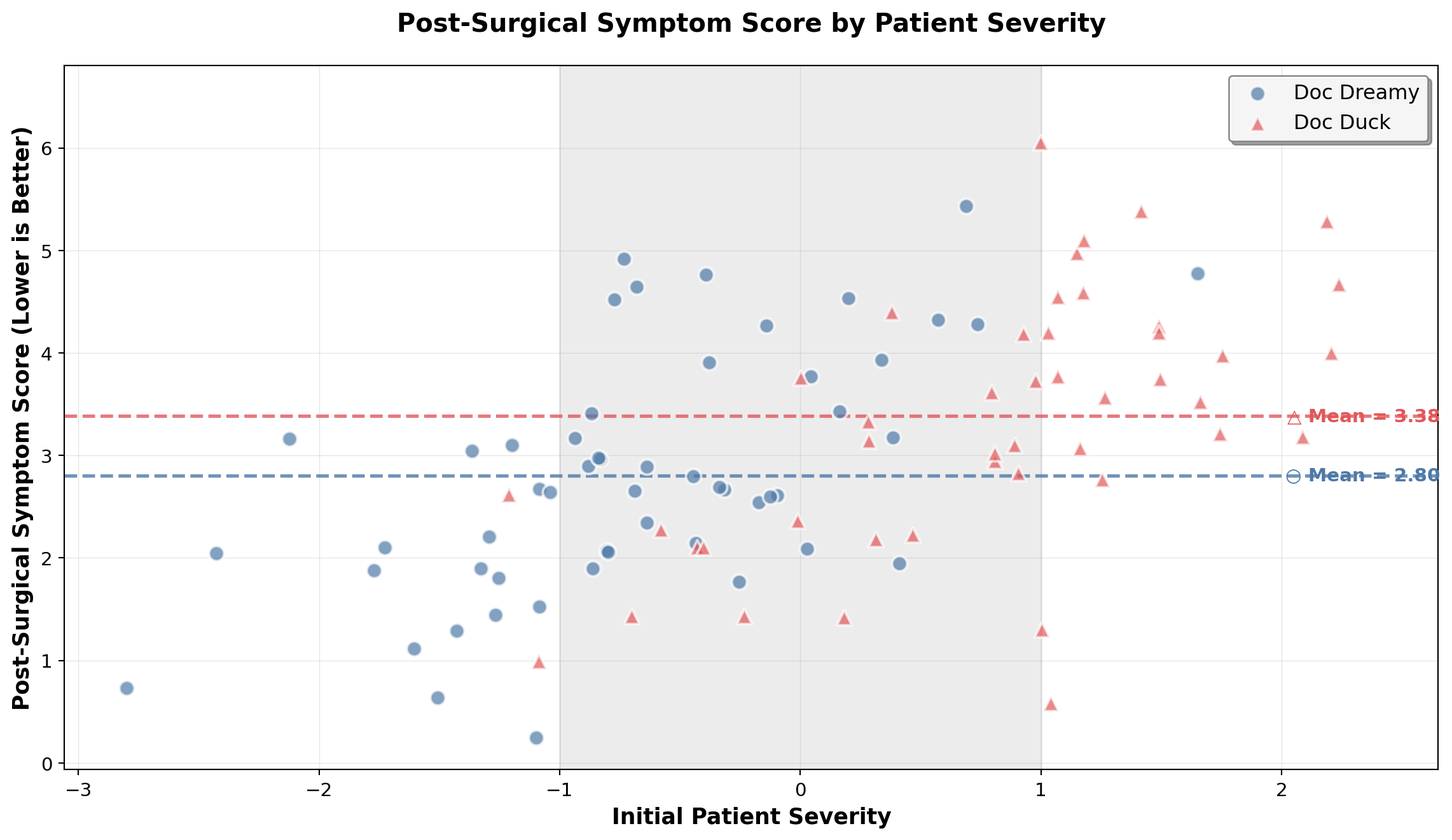
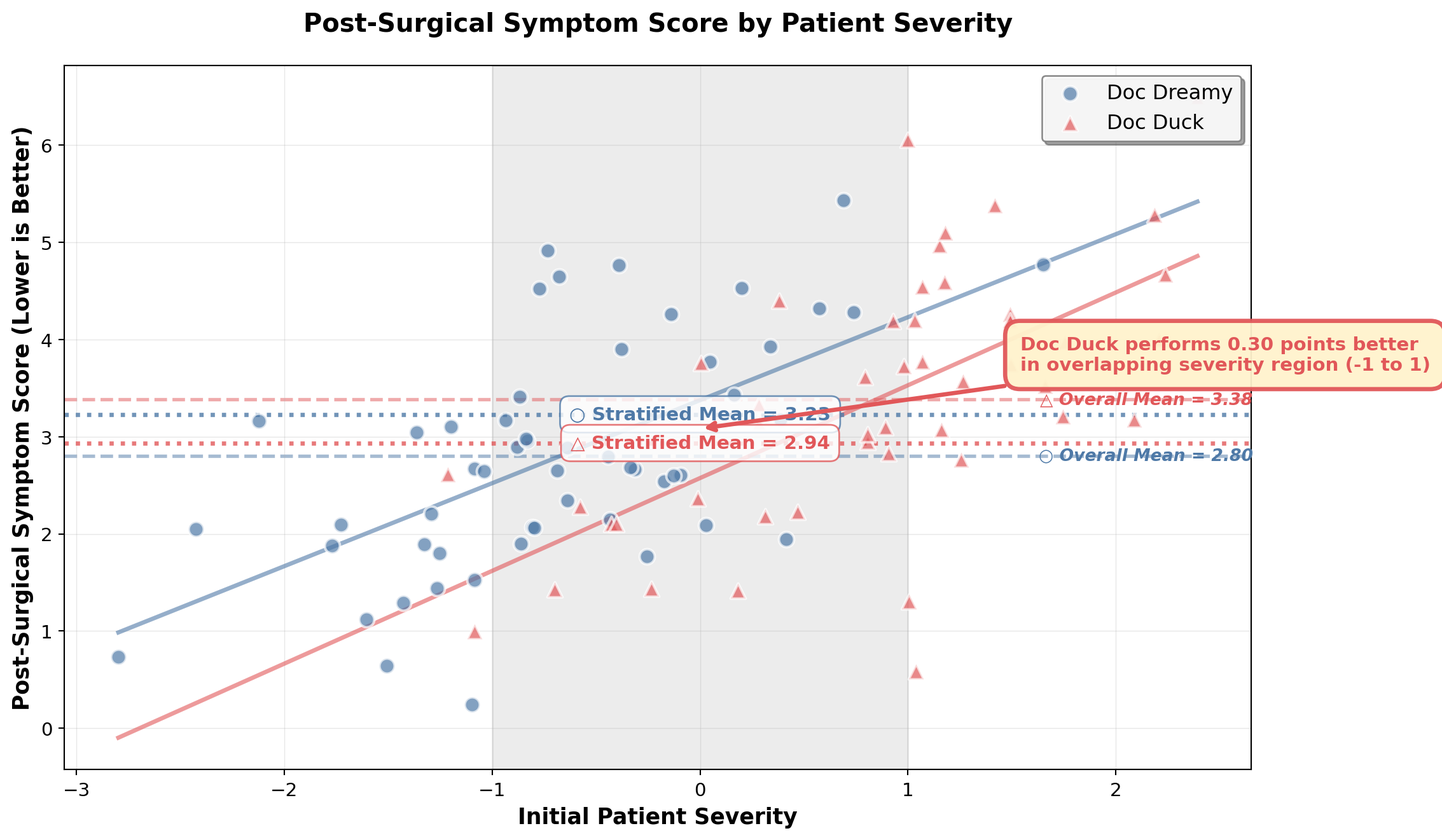
Ram's Randomization challenge

diff --git a/index.html b/index.html
@@ -635,81 +635,138 @@ Figure&nbsp;5: Post-Surgical Symptom Score (lower is better) for randomized pati
 <div id="cell-fig-plot-outcomes-severity" class="cell" data-execution_count="7">
 <div class="code-copy-outer-scaffold"><div class="sourceCode cell-code" id="cb7"><pre class="sourceCode python code-with-copy"><code class="sourceCode python"><span id="cb7-1"><a href="#cb7-1" aria-hidden="true" tabindex="-1"></a><span class="im">import</span> matplotlib.pyplot <span class="im">as</span> plt</span>
 <span id="cb7-2"><a href="#cb7-2" aria-hidden="true" tabindex="-1"></a><span class="im">import</span> numpy <span class="im">as</span> np</span>
-<span id="cb7-3"><a href="#cb7-3" aria-hidden="true" tabindex="-1"></a></span>
-<span id="cb7-4"><a href="#cb7-4" aria-hidden="true" tabindex="-1"></a><span class="co"># Filter observational data by doctor</span></span>
-<span id="cb7-5"><a href="#cb7-5" aria-hidden="true" tabindex="-1"></a>dreamy_data <span class="op">=</span> patients_df[patients_df[<span class="st">'doctor_name'</span>] <span class="op">==</span> <span class="st">'Doc Dreamy'</span>]</span>
-<span id="cb7-6"><a href="#cb7-6" aria-hidden="true" tabindex="-1"></a>duck_data <span class="op">=</span> patients_df[patients_df[<span class="st">'doctor_name'</span>] <span class="op">==</span> <span class="st">'Doc Duck'</span>]</span>
-<span id="cb7-7"><a href="#cb7-7" aria-hidden="true" tabindex="-1"></a></span>
-<span id="cb7-8"><a href="#cb7-8" aria-hidden="true" tabindex="-1"></a><span class="co"># Calculate means</span></span>
-<span id="cb7-9"><a href="#cb7-9" aria-hidden="true" tabindex="-1"></a>dreamy_mean <span class="op">=</span> dreamy_data[<span class="st">'post_surgical_score'</span>].mean()</span>
-<span id="cb7-10"><a href="#cb7-10" aria-hidden="true" tabindex="-1"></a>duck_mean <span class="op">=</span> duck_data[<span class="st">'post_surgical_score'</span>].mean()</span>
-<span id="cb7-11"><a href="#cb7-11" aria-hidden="true" tabindex="-1"></a></span>
-<span id="cb7-12"><a href="#cb7-12" aria-hidden="true" tabindex="-1"></a><span class="co"># Create figure with professional styling</span></span>
-<span id="cb7-13"><a href="#cb7-13" aria-hidden="true" tabindex="-1"></a>fig, ax <span class="op">=</span> plt.subplots(figsize<span class="op">=</span>(<span class="dv">12</span>, <span class="dv">7</span>))</span>
-<span id="cb7-14"><a href="#cb7-14" aria-hidden="true" tabindex="-1"></a></span>
-<span id="cb7-15"><a href="#cb7-15" aria-hidden="true" tabindex="-1"></a><span class="co"># Add shaded region highlighting severity between -1 and 1 (stratification region)</span></span>
-<span id="cb7-16"><a href="#cb7-16" aria-hidden="true" tabindex="-1"></a>ax.axvspan(<span class="op">-</span><span class="dv">1</span>, <span class="dv">1</span>, alpha<span class="op">=</span><span class="fl">0.15</span>, color<span class="op">=</span><span class="st">'gray'</span>, zorder<span class="op">=</span><span class="dv">0</span>, label<span class="op">=</span><span class="st">'Stratification Region'</span>)</span>
-<span id="cb7-17"><a href="#cb7-17" aria-hidden="true" tabindex="-1"></a></span>
-<span id="cb7-18"><a href="#cb7-18" aria-hidden="true" tabindex="-1"></a><span class="co"># Plot scatter points with different markers</span></span>
-<span id="cb7-19"><a href="#cb7-19" aria-hidden="true" tabindex="-1"></a><span class="co"># Doc Dreamy: circles, blue</span></span>
-<span id="cb7-20"><a href="#cb7-20" aria-hidden="true" tabindex="-1"></a>ax.scatter(dreamy_data[<span class="st">'severity'</span>], dreamy_data[<span class="st">'post_surgical_score'</span>], </span>
-<span id="cb7-21"><a href="#cb7-21" aria-hidden="true" tabindex="-1"></a>           marker<span class="op">=</span><span class="st">'o'</span>, color<span class="op">=</span><span class="st">'#4E79A7'</span>, s<span class="op">=</span><span class="dv">80</span>, alpha<span class="op">=</span><span class="fl">0.7</span>, </span>
-<span id="cb7-22"><a href="#cb7-22" aria-hidden="true" tabindex="-1"></a>           label<span class="op">=</span><span class="st">'Doc Dreamy'</span>, edgecolors<span class="op">=</span><span class="st">'white'</span>, linewidths<span class="op">=</span><span class="fl">1.5</span>, zorder<span class="op">=</span><span class="dv">3</span>)</span>
-<span id="cb7-23"><a href="#cb7-23" aria-hidden="true" tabindex="-1"></a></span>
-<span id="cb7-24"><a href="#cb7-24" aria-hidden="true" tabindex="-1"></a><span class="co"># Doc Duck: triangles, coral/red-orange</span></span>
-<span id="cb7-25"><a href="#cb7-25" aria-hidden="true" tabindex="-1"></a>ax.scatter(duck_data[<span class="st">'severity'</span>], duck_data[<span class="st">'post_surgical_score'</span>], </span>
-<span id="cb7-26"><a href="#cb7-26" aria-hidden="true" tabindex="-1"></a>           marker<span class="op">=</span><span class="st">'^'</span>, color<span class="op">=</span><span class="st">'#E15759'</span>, s<span class="op">=</span><span class="dv">80</span>, alpha<span class="op">=</span><span class="fl">0.7</span>, </span>
-<span id="cb7-27"><a href="#cb7-27" aria-hidden="true" tabindex="-1"></a>           label<span class="op">=</span><span class="st">'Doc Duck'</span>, edgecolors<span class="op">=</span><span class="st">'white'</span>, linewidths<span class="op">=</span><span class="fl">1.5</span>, zorder<span class="op">=</span><span class="dv">3</span>)</span>
-<span id="cb7-28"><a href="#cb7-28" aria-hidden="true" tabindex="-1"></a></span>
-<span id="cb7-29"><a href="#cb7-29" aria-hidden="true" tabindex="-1"></a><span class="co"># Add horizontal dashed lines for means</span></span>
-<span id="cb7-30"><a href="#cb7-30" aria-hidden="true" tabindex="-1"></a>ax.axhline(y<span class="op">=</span>dreamy_mean, color<span class="op">=</span><span class="st">'#4E79A7'</span>, linestyle<span class="op">=</span><span class="st">'--'</span>, </span>
-<span id="cb7-31"><a href="#cb7-31" aria-hidden="true" tabindex="-1"></a>           linewidth<span class="op">=</span><span class="dv">2</span>, alpha<span class="op">=</span><span class="fl">0.8</span>, zorder<span class="op">=</span><span class="dv">2</span>)</span>
-<span id="cb7-32"><a href="#cb7-32" aria-hidden="true" tabindex="-1"></a>ax.axhline(y<span class="op">=</span>duck_mean, color<span class="op">=</span><span class="st">'#E15759'</span>, linestyle<span class="op">=</span><span class="st">'--'</span>, </span>
-<span id="cb7-33"><a href="#cb7-33" aria-hidden="true" tabindex="-1"></a>           linewidth<span class="op">=</span><span class="dv">2</span>, alpha<span class="op">=</span><span class="fl">0.8</span>, zorder<span class="op">=</span><span class="dv">2</span>)</span>
-<span id="cb7-34"><a href="#cb7-34" aria-hidden="true" tabindex="-1"></a></span>
-<span id="cb7-35"><a href="#cb7-35" aria-hidden="true" tabindex="-1"></a><span class="co"># Add text annotations with mean values and shape symbols</span></span>
-<span id="cb7-36"><a href="#cb7-36" aria-hidden="true" tabindex="-1"></a><span class="co"># Position annotations on the right side of the plot</span></span>
-<span id="cb7-37"><a href="#cb7-37" aria-hidden="true" tabindex="-1"></a>x_max <span class="op">=</span> <span class="bu">max</span>(patients_df[<span class="st">'severity'</span>].<span class="bu">max</span>(), <span class="bu">abs</span>(patients_df[<span class="st">'severity'</span>].<span class="bu">min</span>()))</span>
-<span id="cb7-38"><a href="#cb7-38" aria-hidden="true" tabindex="-1"></a>x_annotation <span class="op">=</span> x_max <span class="op">*</span> <span class="fl">0.95</span></span>
+<span id="cb7-3"><a href="#cb7-3" aria-hidden="true" tabindex="-1"></a><span class="im">from</span> scipy <span class="im">import</span> stats</span>
+<span id="cb7-4"><a href="#cb7-4" aria-hidden="true" tabindex="-1"></a></span>
+<span id="cb7-5"><a href="#cb7-5" aria-hidden="true" tabindex="-1"></a><span class="co"># Filter observational data by doctor</span></span>
+<span id="cb7-6"><a href="#cb7-6" aria-hidden="true" tabindex="-1"></a>dreamy_data <span class="op">=</span> patients_df[patients_df[<span class="st">'doctor_name'</span>] <span class="op">==</span> <span class="st">'Doc Dreamy'</span>]</span>
+<span id="cb7-7"><a href="#cb7-7" aria-hidden="true" tabindex="-1"></a>duck_data <span class="op">=</span> patients_df[patients_df[<span class="st">'doctor_name'</span>] <span class="op">==</span> <span class="st">'Doc Duck'</span>]</span>
+<span id="cb7-8"><a href="#cb7-8" aria-hidden="true" tabindex="-1"></a></span>
+<span id="cb7-9"><a href="#cb7-9" aria-hidden="true" tabindex="-1"></a><span class="co"># Calculate overall means</span></span>
+<span id="cb7-10"><a href="#cb7-10" aria-hidden="true" tabindex="-1"></a>dreamy_mean <span class="op">=</span> dreamy_data[<span class="st">'post_surgical_score'</span>].mean()</span>
+<span id="cb7-11"><a href="#cb7-11" aria-hidden="true" tabindex="-1"></a>duck_mean <span class="op">=</span> duck_data[<span class="st">'post_surgical_score'</span>].mean()</span>
+<span id="cb7-12"><a href="#cb7-12" aria-hidden="true" tabindex="-1"></a></span>
+<span id="cb7-13"><a href="#cb7-13" aria-hidden="true" tabindex="-1"></a><span class="co"># Calculate means within stratification region (-1 to 1)</span></span>
+<span id="cb7-14"><a href="#cb7-14" aria-hidden="true" tabindex="-1"></a>stratification_mask_dreamy <span class="op">=</span> (dreamy_data[<span class="st">'severity'</span>] <span class="op">&gt;=</span> <span class="op">-</span><span class="dv">1</span>) <span class="op">&amp;</span> (dreamy_data[<span class="st">'severity'</span>] <span class="op">&lt;=</span> <span class="dv">1</span>)</span>
+<span id="cb7-15"><a href="#cb7-15" aria-hidden="true" tabindex="-1"></a>stratification_mask_duck <span class="op">=</span> (duck_data[<span class="st">'severity'</span>] <span class="op">&gt;=</span> <span class="op">-</span><span class="dv">1</span>) <span class="op">&amp;</span> (duck_data[<span class="st">'severity'</span>] <span class="op">&lt;=</span> <span class="dv">1</span>)</span>
+<span id="cb7-16"><a href="#cb7-16" aria-hidden="true" tabindex="-1"></a></span>
+<span id="cb7-17"><a href="#cb7-17" aria-hidden="true" tabindex="-1"></a>dreamy_mean_stratified <span class="op">=</span> dreamy_data[stratification_mask_dreamy][<span class="st">'post_surgical_score'</span>].mean()</span>
+<span id="cb7-18"><a href="#cb7-18" aria-hidden="true" tabindex="-1"></a>duck_mean_stratified <span class="op">=</span> duck_data[stratification_mask_duck][<span class="st">'post_surgical_score'</span>].mean()</span>
+<span id="cb7-19"><a href="#cb7-19" aria-hidden="true" tabindex="-1"></a></span>
+<span id="cb7-20"><a href="#cb7-20" aria-hidden="true" tabindex="-1"></a><span class="co"># Fit regression lines for trend visualization</span></span>
+<span id="cb7-21"><a href="#cb7-21" aria-hidden="true" tabindex="-1"></a>dreamy_slope, dreamy_intercept, _, _, _ <span class="op">=</span> stats.linregress(</span>
+<span id="cb7-22"><a href="#cb7-22" aria-hidden="true" tabindex="-1"></a>    dreamy_data[<span class="st">'severity'</span>], dreamy_data[<span class="st">'post_surgical_score'</span>]</span>
+<span id="cb7-23"><a href="#cb7-23" aria-hidden="true" tabindex="-1"></a>)</span>
+<span id="cb7-24"><a href="#cb7-24" aria-hidden="true" tabindex="-1"></a>duck_slope, duck_intercept, _, _, _ <span class="op">=</span> stats.linregress(</span>
+<span id="cb7-25"><a href="#cb7-25" aria-hidden="true" tabindex="-1"></a>    duck_data[<span class="st">'severity'</span>], duck_data[<span class="st">'post_surgical_score'</span>]</span>
+<span id="cb7-26"><a href="#cb7-26" aria-hidden="true" tabindex="-1"></a>)</span>
+<span id="cb7-27"><a href="#cb7-27" aria-hidden="true" tabindex="-1"></a></span>
+<span id="cb7-28"><a href="#cb7-28" aria-hidden="true" tabindex="-1"></a><span class="co"># Create figure with professional styling</span></span>
+<span id="cb7-29"><a href="#cb7-29" aria-hidden="true" tabindex="-1"></a>fig, ax <span class="op">=</span> plt.subplots(figsize<span class="op">=</span>(<span class="dv">12</span>, <span class="dv">7</span>))</span>
+<span id="cb7-30"><a href="#cb7-30" aria-hidden="true" tabindex="-1"></a></span>
+<span id="cb7-31"><a href="#cb7-31" aria-hidden="true" tabindex="-1"></a><span class="co"># Add shaded region highlighting severity between -1 and 1 (stratification region)</span></span>
+<span id="cb7-32"><a href="#cb7-32" aria-hidden="true" tabindex="-1"></a>ax.axvspan(<span class="op">-</span><span class="dv">1</span>, <span class="dv">1</span>, alpha<span class="op">=</span><span class="fl">0.15</span>, color<span class="op">=</span><span class="st">'gray'</span>, zorder<span class="op">=</span><span class="dv">0</span>, label<span class="op">=</span><span class="st">'Stratification Region'</span>)</span>
+<span id="cb7-33"><a href="#cb7-33" aria-hidden="true" tabindex="-1"></a></span>
+<span id="cb7-34"><a href="#cb7-34" aria-hidden="true" tabindex="-1"></a><span class="co"># Plot scatter points with different markers</span></span>
+<span id="cb7-35"><a href="#cb7-35" aria-hidden="true" tabindex="-1"></a><span class="co"># Doc Dreamy: circles, blue</span></span>
+<span id="cb7-36"><a href="#cb7-36" aria-hidden="true" tabindex="-1"></a>ax.scatter(dreamy_data[<span class="st">'severity'</span>], dreamy_data[<span class="st">'post_surgical_score'</span>], </span>
+<span id="cb7-37"><a href="#cb7-37" aria-hidden="true" tabindex="-1"></a>           marker<span class="op">=</span><span class="st">'o'</span>, color<span class="op">=</span><span class="st">'#4E79A7'</span>, s<span class="op">=</span><span class="dv">80</span>, alpha<span class="op">=</span><span class="fl">0.7</span>, </span>
+<span id="cb7-38"><a href="#cb7-38" aria-hidden="true" tabindex="-1"></a>           label<span class="op">=</span><span class="st">'Doc Dreamy'</span>, edgecolors<span class="op">=</span><span class="st">'white'</span>, linewidths<span class="op">=</span><span class="fl">1.5</span>, zorder<span class="op">=</span><span class="dv">3</span>)</span>
 <span id="cb7-39"><a href="#cb7-39" aria-hidden="true" tabindex="-1"></a></span>
-<span id="cb7-40"><a href="#cb7-40" aria-hidden="true" tabindex="-1"></a><span class="co"># Doc Dreamy annotation with ○ symbol</span></span>
-<span id="cb7-41"><a href="#cb7-41" aria-hidden="true" tabindex="-1"></a>ax.text(x_annotation, dreamy_mean, <span class="ss">f'○ Mean = </span><span class="sc">{</span>dreamy_mean<span class="sc">:.2f}</span><span class="ss">'</span>, </span>
-<span id="cb7-42"><a href="#cb7-42" aria-hidden="true" tabindex="-1"></a>        fontsize<span class="op">=</span><span class="dv">11</span>, color<span class="op">=</span><span class="st">'#4E79A7'</span>, weight<span class="op">=</span><span class="st">'bold'</span>, </span>
-<span id="cb7-43"><a href="#cb7-43" aria-hidden="true" tabindex="-1"></a>        verticalalignment<span class="op">=</span><span class="st">'center'</span>, horizontalalignment<span class="op">=</span><span class="st">'right'</span>, zorder<span class="op">=</span><span class="dv">4</span>)</span>
+<span id="cb7-40"><a href="#cb7-40" aria-hidden="true" tabindex="-1"></a><span class="co"># Doc Duck: triangles, coral/red-orange</span></span>
+<span id="cb7-41"><a href="#cb7-41" aria-hidden="true" tabindex="-1"></a>ax.scatter(duck_data[<span class="st">'severity'</span>], duck_data[<span class="st">'post_surgical_score'</span>], </span>
+<span id="cb7-42"><a href="#cb7-42" aria-hidden="true" tabindex="-1"></a>           marker<span class="op">=</span><span class="st">'^'</span>, color<span class="op">=</span><span class="st">'#E15759'</span>, s<span class="op">=</span><span class="dv">80</span>, alpha<span class="op">=</span><span class="fl">0.7</span>, </span>
+<span id="cb7-43"><a href="#cb7-43" aria-hidden="true" tabindex="-1"></a>           label<span class="op">=</span><span class="st">'Doc Duck'</span>, edgecolors<span class="op">=</span><span class="st">'white'</span>, linewidths<span class="op">=</span><span class="fl">1.5</span>, zorder<span class="op">=</span><span class="dv">3</span>)</span>
 <span id="cb7-44"><a href="#cb7-44" aria-hidden="true" tabindex="-1"></a></span>
-<span id="cb7-45"><a href="#cb7-45" aria-hidden="true" tabindex="-1"></a><span class="co"># Doc Duck annotation with △ symbol</span></span>
-<span id="cb7-46"><a href="#cb7-46" aria-hidden="true" tabindex="-1"></a>ax.text(x_annotation, duck_mean, <span class="ss">f'△ Mean = </span><span class="sc">{</span>duck_mean<span class="sc">:.2f}</span><span class="ss">'</span>, </span>
-<span id="cb7-47"><a href="#cb7-47" aria-hidden="true" tabindex="-1"></a>        fontsize<span class="op">=</span><span class="dv">11</span>, color<span class="op">=</span><span class="st">'#E15759'</span>, weight<span class="op">=</span><span class="st">'bold'</span>, </span>
-<span id="cb7-48"><a href="#cb7-48" aria-hidden="true" tabindex="-1"></a>        verticalalignment<span class="op">=</span><span class="st">'center'</span>, horizontalalignment<span class="op">=</span><span class="st">'right'</span>, zorder<span class="op">=</span><span class="dv">4</span>)</span>
+<span id="cb7-45"><a href="#cb7-45" aria-hidden="true" tabindex="-1"></a><span class="co"># Add regression lines to show trends</span></span>
+<span id="cb7-46"><a href="#cb7-46" aria-hidden="true" tabindex="-1"></a>x_trend <span class="op">=</span> np.linspace(patients_df[<span class="st">'severity'</span>].<span class="bu">min</span>(), patients_df[<span class="st">'severity'</span>].<span class="bu">max</span>(), <span class="dv">100</span>)</span>
+<span id="cb7-47"><a href="#cb7-47" aria-hidden="true" tabindex="-1"></a>dreamy_trend <span class="op">=</span> dreamy_slope <span class="op">*</span> x_trend <span class="op">+</span> dreamy_intercept</span>
+<span id="cb7-48"><a href="#cb7-48" aria-hidden="true" tabindex="-1"></a>duck_trend <span class="op">=</span> duck_slope <span class="op">*</span> x_trend <span class="op">+</span> duck_intercept</span>
 <span id="cb7-49"><a href="#cb7-49" aria-hidden="true" tabindex="-1"></a></span>
-<span id="cb7-50"><a href="#cb7-50" aria-hidden="true" tabindex="-1"></a><span class="co"># Professional styling</span></span>
-<span id="cb7-51"><a href="#cb7-51" aria-hidden="true" tabindex="-1"></a>ax.set_xlabel(<span class="st">'Initial Patient Severity'</span>, fontsize<span class="op">=</span><span class="dv">13</span>, weight<span class="op">=</span><span class="st">'bold'</span>)</span>
-<span id="cb7-52"><a href="#cb7-52" aria-hidden="true" tabindex="-1"></a>ax.set_ylabel(<span class="st">'Post-Surgical Symptom Score (Lower is Better)'</span>, </span>
-<span id="cb7-53"><a href="#cb7-53" aria-hidden="true" tabindex="-1"></a>              fontsize<span class="op">=</span><span class="dv">13</span>, weight<span class="op">=</span><span class="st">'bold'</span>)</span>
-<span id="cb7-54"><a href="#cb7-54" aria-hidden="true" tabindex="-1"></a>ax.set_title(<span class="st">'Post-Surgical Symptom Score by Patient Severity'</span>, </span>
-<span id="cb7-55"><a href="#cb7-55" aria-hidden="true" tabindex="-1"></a>             fontsize<span class="op">=</span><span class="dv">15</span>, weight<span class="op">=</span><span class="st">'bold'</span>, pad<span class="op">=</span><span class="dv">20</span>)</span>
-<span id="cb7-56"><a href="#cb7-56" aria-hidden="true" tabindex="-1"></a></span>
-<span id="cb7-57"><a href="#cb7-57" aria-hidden="true" tabindex="-1"></a><span class="co"># Add grid</span></span>
-<span id="cb7-58"><a href="#cb7-58" aria-hidden="true" tabindex="-1"></a>ax.grid(<span class="va">True</span>, alpha<span class="op">=</span><span class="fl">0.3</span>, linestyle<span class="op">=</span><span class="st">'-'</span>, linewidth<span class="op">=</span><span class="fl">0.5</span>, zorder<span class="op">=</span><span class="dv">1</span>)</span>
-<span id="cb7-59"><a href="#cb7-59" aria-hidden="true" tabindex="-1"></a></span>
-<span id="cb7-60"><a href="#cb7-60" aria-hidden="true" tabindex="-1"></a><span class="co"># Add legend (excluding the shaded region from legend to keep it clean)</span></span>
-<span id="cb7-61"><a href="#cb7-61" aria-hidden="true" tabindex="-1"></a>handles, labels <span class="op">=</span> ax.get_legend_handles_labels()</span>
-<span id="cb7-62"><a href="#cb7-62" aria-hidden="true" tabindex="-1"></a><span class="co"># Filter out the shaded region from legend</span></span>
-<span id="cb7-63"><a href="#cb7-63" aria-hidden="true" tabindex="-1"></a>filtered_handles <span class="op">=</span> [h <span class="cf">for</span> h, l <span class="kw">in</span> <span class="bu">zip</span>(handles, labels) <span class="cf">if</span> l <span class="op">!=</span> <span class="st">'Stratification Region'</span>]</span>
-<span id="cb7-64"><a href="#cb7-64" aria-hidden="true" tabindex="-1"></a>filtered_labels <span class="op">=</span> [l <span class="cf">for</span> l <span class="kw">in</span> labels <span class="cf">if</span> l <span class="op">!=</span> <span class="st">'Stratification Region'</span>]</span>
-<span id="cb7-65"><a href="#cb7-65" aria-hidden="true" tabindex="-1"></a>ax.legend(filtered_handles, filtered_labels, loc<span class="op">=</span><span class="st">'upper right'</span>, fontsize<span class="op">=</span><span class="dv">12</span>, </span>
-<span id="cb7-66"><a href="#cb7-66" aria-hidden="true" tabindex="-1"></a>          framealpha<span class="op">=</span><span class="fl">0.9</span>, edgecolor<span class="op">=</span><span class="st">'gray'</span>, fancybox<span class="op">=</span><span class="va">True</span>, shadow<span class="op">=</span><span class="va">True</span>)</span>
-<span id="cb7-67"><a href="#cb7-67" aria-hidden="true" tabindex="-1"></a></span>
-<span id="cb7-68"><a href="#cb7-68" aria-hidden="true" tabindex="-1"></a><span class="co"># Improve tick labels</span></span>
-<span id="cb7-69"><a href="#cb7-69" aria-hidden="true" tabindex="-1"></a>ax.tick_params(axis<span class="op">=</span><span class="st">'both'</span>, labelsize<span class="op">=</span><span class="dv">11</span>)</span>
-<span id="cb7-70"><a href="#cb7-70" aria-hidden="true" tabindex="-1"></a></span>
-<span id="cb7-71"><a href="#cb7-71" aria-hidden="true" tabindex="-1"></a>plt.tight_layout()</span>
-<span id="cb7-72"><a href="#cb7-72" aria-hidden="true" tabindex="-1"></a>plt.show()</span></code></pre></div><button title="Copy to Clipboard" class="code-copy-button"><i class="bi"></i></button></div>
+<span id="cb7-50"><a href="#cb7-50" aria-hidden="true" tabindex="-1"></a>ax.plot(x_trend, dreamy_trend, color<span class="op">=</span><span class="st">'#4E79A7'</span>, linestyle<span class="op">=</span><span class="st">'-'</span>, </span>
+<span id="cb7-51"><a href="#cb7-51" aria-hidden="true" tabindex="-1"></a>        linewidth<span class="op">=</span><span class="fl">2.5</span>, alpha<span class="op">=</span><span class="fl">0.6</span>, label<span class="op">=</span><span class="st">'Doc Dreamy Trend'</span>, zorder<span class="op">=</span><span class="dv">2</span>)</span>
+<span id="cb7-52"><a href="#cb7-52" aria-hidden="true" tabindex="-1"></a>ax.plot(x_trend, duck_trend, color<span class="op">=</span><span class="st">'#E15759'</span>, linestyle<span class="op">=</span><span class="st">'-'</span>, </span>
+<span id="cb7-53"><a href="#cb7-53" aria-hidden="true" tabindex="-1"></a>        linewidth<span class="op">=</span><span class="fl">2.5</span>, alpha<span class="op">=</span><span class="fl">0.6</span>, label<span class="op">=</span><span class="st">'Doc Duck Trend'</span>, zorder<span class="op">=</span><span class="dv">2</span>)</span>
+<span id="cb7-54"><a href="#cb7-54" aria-hidden="true" tabindex="-1"></a></span>
+<span id="cb7-55"><a href="#cb7-55" aria-hidden="true" tabindex="-1"></a><span class="co"># Add horizontal dashed lines for overall means</span></span>
+<span id="cb7-56"><a href="#cb7-56" aria-hidden="true" tabindex="-1"></a>ax.axhline(y<span class="op">=</span>dreamy_mean, color<span class="op">=</span><span class="st">'#4E79A7'</span>, linestyle<span class="op">=</span><span class="st">'--'</span>, </span>
+<span id="cb7-57"><a href="#cb7-57" aria-hidden="true" tabindex="-1"></a>           linewidth<span class="op">=</span><span class="dv">2</span>, alpha<span class="op">=</span><span class="fl">0.5</span>, zorder<span class="op">=</span><span class="dv">1</span>)</span>
+<span id="cb7-58"><a href="#cb7-58" aria-hidden="true" tabindex="-1"></a>ax.axhline(y<span class="op">=</span>duck_mean, color<span class="op">=</span><span class="st">'#E15759'</span>, linestyle<span class="op">=</span><span class="st">'--'</span>, </span>
+<span id="cb7-59"><a href="#cb7-59" aria-hidden="true" tabindex="-1"></a>           linewidth<span class="op">=</span><span class="dv">2</span>, alpha<span class="op">=</span><span class="fl">0.5</span>, zorder<span class="op">=</span><span class="dv">1</span>)</span>
+<span id="cb7-60"><a href="#cb7-60" aria-hidden="true" tabindex="-1"></a></span>
+<span id="cb7-61"><a href="#cb7-61" aria-hidden="true" tabindex="-1"></a><span class="co"># Add horizontal lines for stratified means within -1 to 1 region</span></span>
+<span id="cb7-62"><a href="#cb7-62" aria-hidden="true" tabindex="-1"></a>ax.axhline(y<span class="op">=</span>dreamy_mean_stratified, color<span class="op">=</span><span class="st">'#4E79A7'</span>, linestyle<span class="op">=</span><span class="st">':'</span>, </span>
+<span id="cb7-63"><a href="#cb7-63" aria-hidden="true" tabindex="-1"></a>           linewidth<span class="op">=</span><span class="fl">2.5</span>, alpha<span class="op">=</span><span class="fl">0.8</span>, zorder<span class="op">=</span><span class="dv">2</span>)</span>
+<span id="cb7-64"><a href="#cb7-64" aria-hidden="true" tabindex="-1"></a>ax.axhline(y<span class="op">=</span>duck_mean_stratified, color<span class="op">=</span><span class="st">'#E15759'</span>, linestyle<span class="op">=</span><span class="st">':'</span>, </span>
+<span id="cb7-65"><a href="#cb7-65" aria-hidden="true" tabindex="-1"></a>           linewidth<span class="op">=</span><span class="fl">2.5</span>, alpha<span class="op">=</span><span class="fl">0.8</span>, zorder<span class="op">=</span><span class="dv">2</span>)</span>
+<span id="cb7-66"><a href="#cb7-66" aria-hidden="true" tabindex="-1"></a></span>
+<span id="cb7-67"><a href="#cb7-67" aria-hidden="true" tabindex="-1"></a><span class="co"># Add text annotations with mean values and shape symbols</span></span>
+<span id="cb7-68"><a href="#cb7-68" aria-hidden="true" tabindex="-1"></a><span class="co"># Position annotations on the right side of the plot</span></span>
+<span id="cb7-69"><a href="#cb7-69" aria-hidden="true" tabindex="-1"></a>x_max <span class="op">=</span> <span class="bu">max</span>(patients_df[<span class="st">'severity'</span>].<span class="bu">max</span>(), <span class="bu">abs</span>(patients_df[<span class="st">'severity'</span>].<span class="bu">min</span>()))</span>
+<span id="cb7-70"><a href="#cb7-70" aria-hidden="true" tabindex="-1"></a>x_annotation <span class="op">=</span> x_max <span class="op">*</span> <span class="fl">0.95</span></span>
+<span id="cb7-71"><a href="#cb7-71" aria-hidden="true" tabindex="-1"></a></span>
+<span id="cb7-72"><a href="#cb7-72" aria-hidden="true" tabindex="-1"></a><span class="co"># Overall means (dashed lines)</span></span>
+<span id="cb7-73"><a href="#cb7-73" aria-hidden="true" tabindex="-1"></a>ax.text(x_annotation, dreamy_mean, <span class="ss">f'○ Overall Mean = </span><span class="sc">{</span>dreamy_mean<span class="sc">:.2f}</span><span class="ss">'</span>, </span>
+<span id="cb7-74"><a href="#cb7-74" aria-hidden="true" tabindex="-1"></a>        fontsize<span class="op">=</span><span class="dv">10</span>, color<span class="op">=</span><span class="st">'#4E79A7'</span>, weight<span class="op">=</span><span class="st">'bold'</span>, style<span class="op">=</span><span class="st">'italic'</span>,</span>
+<span id="cb7-75"><a href="#cb7-75" aria-hidden="true" tabindex="-1"></a>        verticalalignment<span class="op">=</span><span class="st">'center'</span>, horizontalalignment<span class="op">=</span><span class="st">'right'</span>, zorder<span class="op">=</span><span class="dv">4</span>)</span>
+<span id="cb7-76"><a href="#cb7-76" aria-hidden="true" tabindex="-1"></a></span>
+<span id="cb7-77"><a href="#cb7-77" aria-hidden="true" tabindex="-1"></a>ax.text(x_annotation, duck_mean, <span class="ss">f'△ Overall Mean = </span><span class="sc">{</span>duck_mean<span class="sc">:.2f}</span><span class="ss">'</span>, </span>
+<span id="cb7-78"><a href="#cb7-78" aria-hidden="true" tabindex="-1"></a>        fontsize<span class="op">=</span><span class="dv">10</span>, color<span class="op">=</span><span class="st">'#E15759'</span>, weight<span class="op">=</span><span class="st">'bold'</span>, style<span class="op">=</span><span class="st">'italic'</span>,</span>
+<span id="cb7-79"><a href="#cb7-79" aria-hidden="true" tabindex="-1"></a>        verticalalignment<span class="op">=</span><span class="st">'center'</span>, horizontalalignment<span class="op">=</span><span class="st">'right'</span>, zorder<span class="op">=</span><span class="dv">4</span>)</span>
+<span id="cb7-80"><a href="#cb7-80" aria-hidden="true" tabindex="-1"></a></span>
+<span id="cb7-81"><a href="#cb7-81" aria-hidden="true" tabindex="-1"></a><span class="co"># Stratified means (dotted lines) - highlight in stratification region</span></span>
+<span id="cb7-82"><a href="#cb7-82" aria-hidden="true" tabindex="-1"></a>ax.text(<span class="dv">0</span>, dreamy_mean_stratified, <span class="ss">f'○ Stratified Mean = </span><span class="sc">{</span>dreamy_mean_stratified<span class="sc">:.2f}</span><span class="ss">'</span>, </span>
+<span id="cb7-83"><a href="#cb7-83" aria-hidden="true" tabindex="-1"></a>        fontsize<span class="op">=</span><span class="dv">11</span>, color<span class="op">=</span><span class="st">'#4E79A7'</span>, weight<span class="op">=</span><span class="st">'bold'</span>,</span>
+<span id="cb7-84"><a href="#cb7-84" aria-hidden="true" tabindex="-1"></a>        verticalalignment<span class="op">=</span><span class="st">'center'</span>, horizontalalignment<span class="op">=</span><span class="st">'center'</span>, </span>
+<span id="cb7-85"><a href="#cb7-85" aria-hidden="true" tabindex="-1"></a>        bbox<span class="op">=</span><span class="bu">dict</span>(boxstyle<span class="op">=</span><span class="st">'round,pad=0.5'</span>, facecolor<span class="op">=</span><span class="st">'white'</span>, alpha<span class="op">=</span><span class="fl">0.8</span>, edgecolor<span class="op">=</span><span class="st">'#4E79A7'</span>),</span>
+<span id="cb7-86"><a href="#cb7-86" aria-hidden="true" tabindex="-1"></a>        zorder<span class="op">=</span><span class="dv">5</span>)</span>
+<span id="cb7-87"><a href="#cb7-87" aria-hidden="true" tabindex="-1"></a></span>
+<span id="cb7-88"><a href="#cb7-88" aria-hidden="true" tabindex="-1"></a>ax.text(<span class="dv">0</span>, duck_mean_stratified, <span class="ss">f'△ Stratified Mean = </span><span class="sc">{</span>duck_mean_stratified<span class="sc">:.2f}</span><span class="ss">'</span>, </span>
+<span id="cb7-89"><a href="#cb7-89" aria-hidden="true" tabindex="-1"></a>        fontsize<span class="op">=</span><span class="dv">11</span>, color<span class="op">=</span><span class="st">'#E15759'</span>, weight<span class="op">=</span><span class="st">'bold'</span>,</span>
+<span id="cb7-90"><a href="#cb7-90" aria-hidden="true" tabindex="-1"></a>        verticalalignment<span class="op">=</span><span class="st">'center'</span>, horizontalalignment<span class="op">=</span><span class="st">'center'</span>,</span>
+<span id="cb7-91"><a href="#cb7-91" aria-hidden="true" tabindex="-1"></a>        bbox<span class="op">=</span><span class="bu">dict</span>(boxstyle<span class="op">=</span><span class="st">'round,pad=0.5'</span>, facecolor<span class="op">=</span><span class="st">'white'</span>, alpha<span class="op">=</span><span class="fl">0.8</span>, edgecolor<span class="op">=</span><span class="st">'#E15759'</span>),</span>
+<span id="cb7-92"><a href="#cb7-92" aria-hidden="true" tabindex="-1"></a>        zorder<span class="op">=</span><span class="dv">5</span>)</span>
+<span id="cb7-93"><a href="#cb7-93" aria-hidden="true" tabindex="-1"></a></span>
+<span id="cb7-94"><a href="#cb7-94" aria-hidden="true" tabindex="-1"></a><span class="co"># Add annotation highlighting that Doc Duck is better in stratification region</span></span>
+<span id="cb7-95"><a href="#cb7-95" aria-hidden="true" tabindex="-1"></a><span class="cf">if</span> duck_mean_stratified <span class="op">&lt;</span> dreamy_mean_stratified:</span>
+<span id="cb7-96"><a href="#cb7-96" aria-hidden="true" tabindex="-1"></a>    diff <span class="op">=</span> dreamy_mean_stratified <span class="op">-</span> duck_mean_stratified</span>
+<span id="cb7-97"><a href="#cb7-97" aria-hidden="true" tabindex="-1"></a>    ax.annotate(<span class="ss">f'Doc Duck performs </span><span class="sc">{</span>diff<span class="sc">:.2f}</span><span class="ss"> points better</span><span class="ch">\n</span><span class="ss">in overlapping severity region (-1 to 1)'</span>,</span>
+<span id="cb7-98"><a href="#cb7-98" aria-hidden="true" tabindex="-1"></a>                xy<span class="op">=</span>(<span class="dv">0</span>, (dreamy_mean_stratified <span class="op">+</span> duck_mean_stratified) <span class="op">/</span> <span class="dv">2</span>),</span>
+<span id="cb7-99"><a href="#cb7-99" aria-hidden="true" tabindex="-1"></a>                xytext<span class="op">=</span>(x_max <span class="op">*</span> <span class="fl">0.55</span>, (dreamy_mean_stratified <span class="op">+</span> duck_mean_stratified) <span class="op">/</span> <span class="dv">2</span> <span class="op">+</span> <span class="fl">0.6</span>),</span>
+<span id="cb7-100"><a href="#cb7-100" aria-hidden="true" tabindex="-1"></a>                fontsize<span class="op">=</span><span class="dv">11</span>, weight<span class="op">=</span><span class="st">'bold'</span>, color<span class="op">=</span><span class="st">'#E15759'</span>,</span>
+<span id="cb7-101"><a href="#cb7-101" aria-hidden="true" tabindex="-1"></a>                arrowprops<span class="op">=</span><span class="bu">dict</span>(arrowstyle<span class="op">=</span><span class="st">'-&gt;'</span>, color<span class="op">=</span><span class="st">'#E15759'</span>, lw<span class="op">=</span><span class="fl">2.5</span>),</span>
+<span id="cb7-102"><a href="#cb7-102" aria-hidden="true" tabindex="-1"></a>                bbox<span class="op">=</span><span class="bu">dict</span>(boxstyle<span class="op">=</span><span class="st">'round,pad=0.8'</span>, facecolor<span class="op">=</span><span class="st">'#FFF3CD'</span>, alpha<span class="op">=</span><span class="fl">0.95</span>, edgecolor<span class="op">=</span><span class="st">'#E15759'</span>, lw<span class="op">=</span><span class="fl">2.5</span>),</span>
+<span id="cb7-103"><a href="#cb7-103" aria-hidden="true" tabindex="-1"></a>                zorder<span class="op">=</span><span class="dv">6</span>, horizontalalignment<span class="op">=</span><span class="st">'left'</span>)</span>
+<span id="cb7-104"><a href="#cb7-104" aria-hidden="true" tabindex="-1"></a></span>
+<span id="cb7-105"><a href="#cb7-105" aria-hidden="true" tabindex="-1"></a><span class="co"># Professional styling</span></span>
+<span id="cb7-106"><a href="#cb7-106" aria-hidden="true" tabindex="-1"></a>ax.set_xlabel(<span class="st">'Initial Patient Severity'</span>, fontsize<span class="op">=</span><span class="dv">13</span>, weight<span class="op">=</span><span class="st">'bold'</span>)</span>
+<span id="cb7-107"><a href="#cb7-107" aria-hidden="true" tabindex="-1"></a>ax.set_ylabel(<span class="st">'Post-Surgical Symptom Score (Lower is Better)'</span>, </span>
+<span id="cb7-108"><a href="#cb7-108" aria-hidden="true" tabindex="-1"></a>              fontsize<span class="op">=</span><span class="dv">13</span>, weight<span class="op">=</span><span class="st">'bold'</span>)</span>
+<span id="cb7-109"><a href="#cb7-109" aria-hidden="true" tabindex="-1"></a>ax.set_title(<span class="st">'Post-Surgical Symptom Score by Patient Severity'</span>, </span>
+<span id="cb7-110"><a href="#cb7-110" aria-hidden="true" tabindex="-1"></a>             fontsize<span class="op">=</span><span class="dv">15</span>, weight<span class="op">=</span><span class="st">'bold'</span>, pad<span class="op">=</span><span class="dv">20</span>)</span>
+<span id="cb7-111"><a href="#cb7-111" aria-hidden="true" tabindex="-1"></a></span>
+<span id="cb7-112"><a href="#cb7-112" aria-hidden="true" tabindex="-1"></a><span class="co"># Add grid</span></span>
+<span id="cb7-113"><a href="#cb7-113" aria-hidden="true" tabindex="-1"></a>ax.grid(<span class="va">True</span>, alpha<span class="op">=</span><span class="fl">0.3</span>, linestyle<span class="op">=</span><span class="st">'-'</span>, linewidth<span class="op">=</span><span class="fl">0.5</span>, zorder<span class="op">=</span><span class="dv">1</span>)</span>
+<span id="cb7-114"><a href="#cb7-114" aria-hidden="true" tabindex="-1"></a></span>
+<span id="cb7-115"><a href="#cb7-115" aria-hidden="true" tabindex="-1"></a><span class="co"># Add legend (excluding the shaded region and trend lines from legend to keep it clean)</span></span>
+<span id="cb7-116"><a href="#cb7-116" aria-hidden="true" tabindex="-1"></a>handles, labels <span class="op">=</span> ax.get_legend_handles_labels()</span>
+<span id="cb7-117"><a href="#cb7-117" aria-hidden="true" tabindex="-1"></a><span class="co"># Filter out the shaded region and trend lines from legend</span></span>
+<span id="cb7-118"><a href="#cb7-118" aria-hidden="true" tabindex="-1"></a>filtered_handles <span class="op">=</span> [h <span class="cf">for</span> h, l <span class="kw">in</span> <span class="bu">zip</span>(handles, labels) </span>
+<span id="cb7-119"><a href="#cb7-119" aria-hidden="true" tabindex="-1"></a>                    <span class="cf">if</span> l <span class="kw">not</span> <span class="kw">in</span> [<span class="st">'Stratification Region'</span>, <span class="st">'Doc Dreamy Trend'</span>, <span class="st">'Doc Duck Trend'</span>]]</span>
+<span id="cb7-120"><a href="#cb7-120" aria-hidden="true" tabindex="-1"></a>filtered_labels <span class="op">=</span> [l <span class="cf">for</span> l <span class="kw">in</span> labels </span>
+<span id="cb7-121"><a href="#cb7-121" aria-hidden="true" tabindex="-1"></a>                   <span class="cf">if</span> l <span class="kw">not</span> <span class="kw">in</span> [<span class="st">'Stratification Region'</span>, <span class="st">'Doc Dreamy Trend'</span>, <span class="st">'Doc Duck Trend'</span>]]</span>
+<span id="cb7-122"><a href="#cb7-122" aria-hidden="true" tabindex="-1"></a>ax.legend(filtered_handles, filtered_labels, loc<span class="op">=</span><span class="st">'upper right'</span>, fontsize<span class="op">=</span><span class="dv">12</span>, </span>
+<span id="cb7-123"><a href="#cb7-123" aria-hidden="true" tabindex="-1"></a>          framealpha<span class="op">=</span><span class="fl">0.9</span>, edgecolor<span class="op">=</span><span class="st">'gray'</span>, fancybox<span class="op">=</span><span class="va">True</span>, shadow<span class="op">=</span><span class="va">True</span>)</span>
+<span id="cb7-124"><a href="#cb7-124" aria-hidden="true" tabindex="-1"></a></span>
+<span id="cb7-125"><a href="#cb7-125" aria-hidden="true" tabindex="-1"></a><span class="co"># Improve tick labels</span></span>
+<span id="cb7-126"><a href="#cb7-126" aria-hidden="true" tabindex="-1"></a>ax.tick_params(axis<span class="op">=</span><span class="st">'both'</span>, labelsize<span class="op">=</span><span class="dv">11</span>)</span>
+<span id="cb7-127"><a href="#cb7-127" aria-hidden="true" tabindex="-1"></a></span>
+<span id="cb7-128"><a href="#cb7-128" aria-hidden="true" tabindex="-1"></a>plt.tight_layout()</span>
+<span id="cb7-129"><a href="#cb7-129" aria-hidden="true" tabindex="-1"></a>plt.show()</span></code></pre></div><button title="Copy to Clipboard" class="code-copy-button"><i class="bi"></i></button></div>
 <div class="cell-output cell-output-display">
 <div id="fig-plot-outcomes-severity" class="quarto-float quarto-figure quarto-figure-center anchored">
 <figure class="quarto-float quarto-float-fig figure">
 <div aria-describedby="fig-plot-outcomes-severity-caption-0ceaefa1-69ba-4598-a22c-09a6ac19f8ca">
-<img src="index_files/figure-html/fig-plot-outcomes-severity-output-1.png" width="1142" height="661" class="figure-img">
+<img src="index_files/figure-html/fig-plot-outcomes-severity-output-1.png" width="1134" height="661" class="figure-img">
 </div>
 <figcaption class="quarto-float-caption-bottom quarto-float-caption quarto-float-fig" id="fig-plot-outcomes-severity-caption-0ceaefa1-69ba-4598-a22c-09a6ac19f8ca">
 Figure&nbsp;6: Post-Surgical Symptom Score (lower is better) by Patient and Severity
@@ -720,6 +777,7 @@ Figure&nbsp;6: Post-Surgical Symptom Score (lower is better) by Patient and Seve
 </div>
 <p>Looking at <a href="#fig-plot-outcomes-severity" class="quarto-xref">Figure&nbsp;6</a>, the value of stratifying by severity is visually most obvious with initial patient severity scores between -1 and 1 (highlighted in the overlay). We chose this region because it shows substantial overlap between the two surgeons—both surgeons have considerable data within this range, making it an ideal region for comparing their performance. Outside of this range, there is less data available for making direct comparisons: Doc Duck sees more of the higher-severity patients (severity &gt; 1), while Doc Dreamy sees more of the lower-severity patients (severity &lt; -1).</p>
 <p>Within the highlighted region, Doc Dreamy’s blue circles tend to be higher (worse) than Doc Duck’s red triangles for these patients. It is also obvious that Doc Duck is seeing the more severe patients overall, as his red triangles are generally to the right of Doc Dreamy’s blue circles on the x-axis. This is exactly what we would expect if patient severity were a common cause of surgeon choice and surgical outcomes. Despite the aggregate statistics pointing to Doc Dreamy having lower (better) post-surgical symptom scores on average, our visual analysis of this overlapping region leads us to conclude that Doc Duck is actually the better surgeon—a conclusion that would be obscured if we only looked at the means without stratifying by severity.</p>
+<p>Enhanced Figure 3 to show that Doc Duck performs better when controlling for patient severity. Changes: Regression lines: Added trend lines for each doctor to show the relationship between severity and outcomes. Stratified means: Calculated and displayed means within the stratification region (-1 to 1 severity) with dotted horizontal lines, showing performance for similar-severity patients. Visual comparison: Overall means (dashed lines) show the confounding effect Stratified means (dotted lines) show the true comparison Annotations highlight the stratified means in the overlapping region Highlight annotation: Added an annotation stating how much better Doc Duck performs in the overlapping severity region, with an arrow pointing to the comparison. Legend: Cleaned up to exclude trend lines and the stratification region. The figure shows: Overall, Doc Dreamy appears better (due to confounding) When controlling for severity (stratification region -1 to 1), Doc Duck performs better The regression lines show the trends, making the comparison clearer This aligns with Figure 2 (randomized data), where Doc Duck is shown to be the better doctor. Re-render the document to see the updated figure.</p>
 </section>
 </section>
 <section id="how-to-solve-the-confounder-challenge" class="level2">
